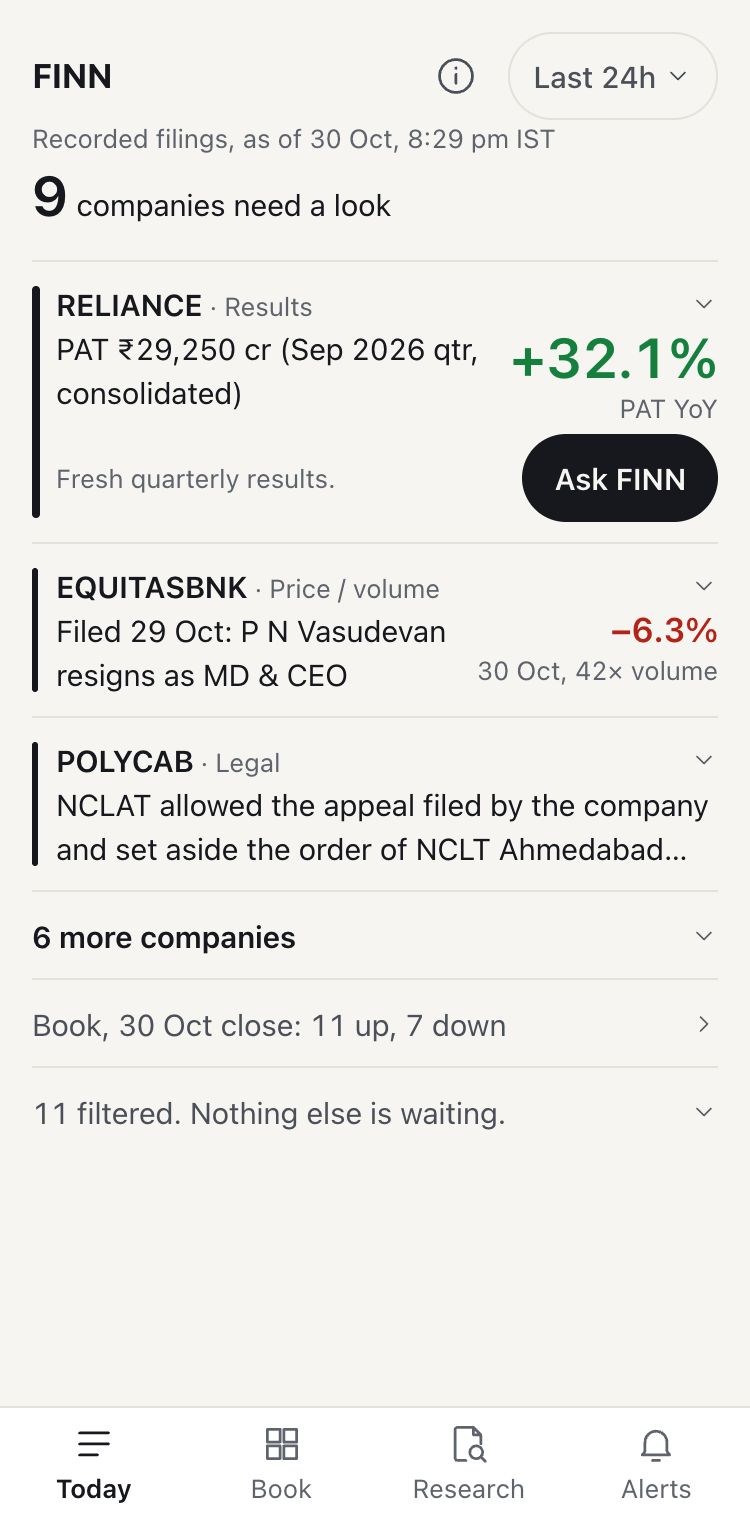
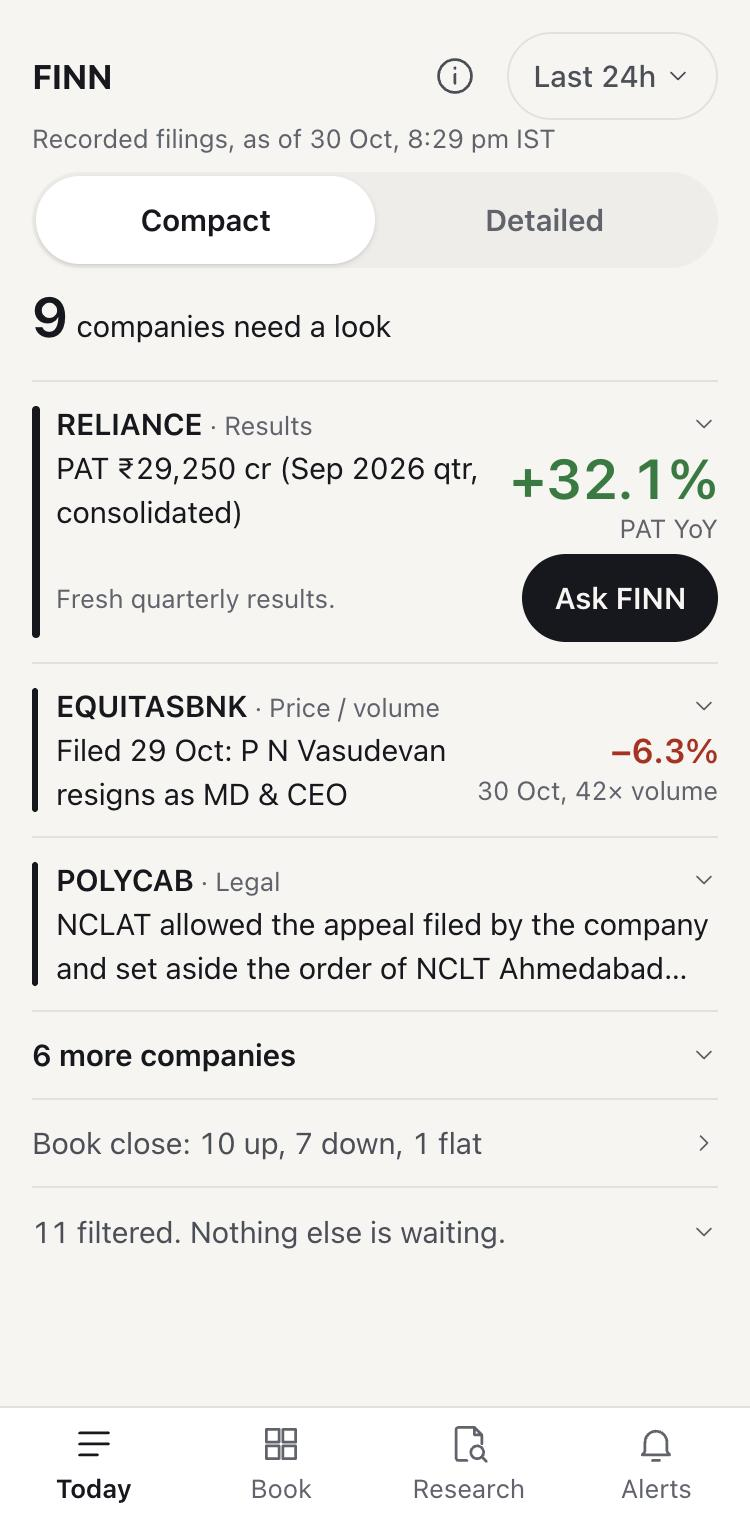
docs: README screenshots match the app, and the test line has no stale count

diff --git a/README.md b/README.md
@@ -13,12 +13,12 @@ What to look at first:
 - **A promise followed.** Research, then the Kaynes walk: every step has a speaker and a page, and code does the arithmetic.
 
 <p>
-  <img src="docs/img/01-briefing.jpg" width="250" alt="Today: nine companies need a look, the top three rows with one number each, six more, the book, and what was filtered">
+  <img src="docs/img/01-briefing.jpg" width="250" alt="Today in Compact: nine companies need a look, the top three rows with one number each, six more, the book, and what was filtered">
   <img src="docs/img/02-results-card.jpg" width="250" alt="An opened row: Reliance with why it ranks first, its filing link, and the results table with QoQ and YoY, computed by code, and a page link">
   <img src="docs/img/03-research-bel.jpg" width="250" alt="Promised vs delivered for BEL: 3 of 6 checkable promises met">
 </p>
 
-*Screenshots are the static build at 375px wide: Today in its Compact view, an opened row, and BEL's promised-vs-delivered scorecard.*
+*Below the hero, the static build at 375px wide: Today in Compact, an opened row, and BEL's promised-vs-delivered scorecard.*
 
 ## 2-minute tour
 
@@ -44,7 +44,7 @@ git clone https://github.com/adityadeshmukh23/finn.git && cd finn
 - No API key is needed to run. Without one, FINN replays the recordings in `data/recordings/` or uses mock output, and says so.
 - `./run.sh research TICKER` makes live model calls, so it needs a free `GEMINI_API_KEY` in `.env` (get one at aistudio.google.com/apikey). It takes a few minutes per company and lands in the Research tab. If the free tier is out of quota it records nothing and tells you to re-run later.
 - A ticker that screener.in has no earnings-call transcripts for (ITC, for one) is refused with a plain message, not a guess.
-- Tests: `cd backend && ../.venv/bin/pytest -q` (151; no key needed).
+- Tests: `cd backend && ../.venv/bin/pytest -q` and `cd web && npm test`. No key needed.
 
 ## What it does
 
